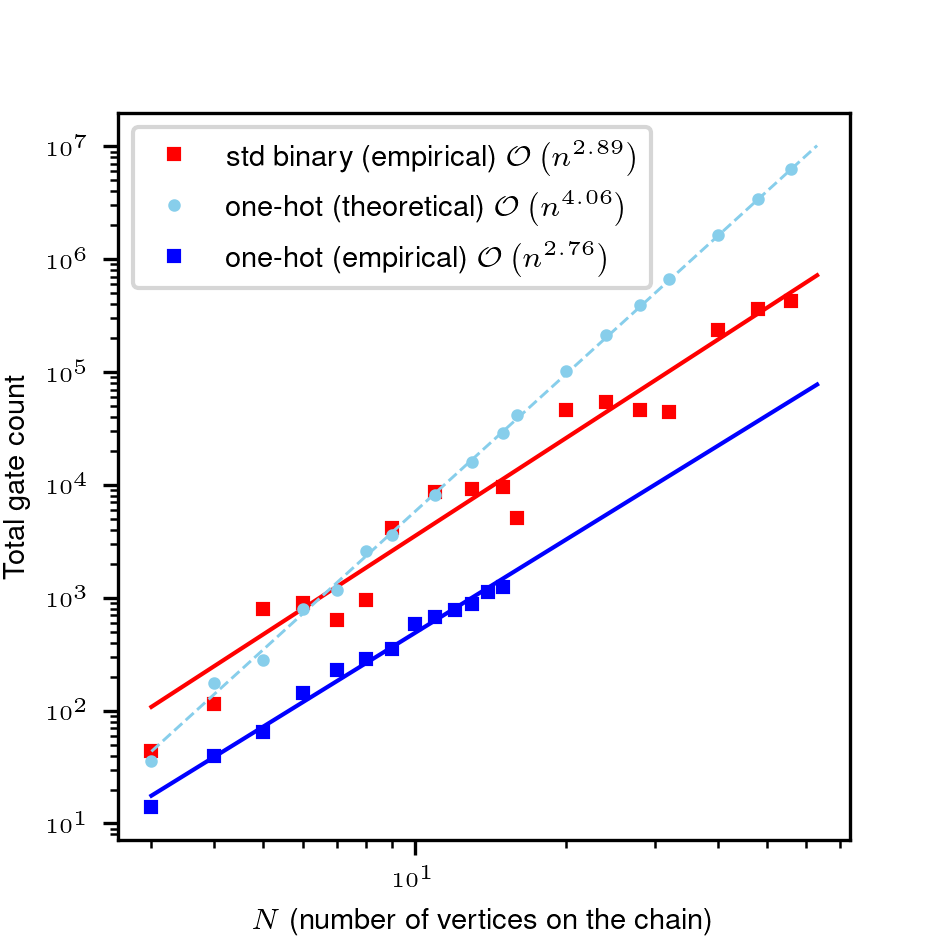
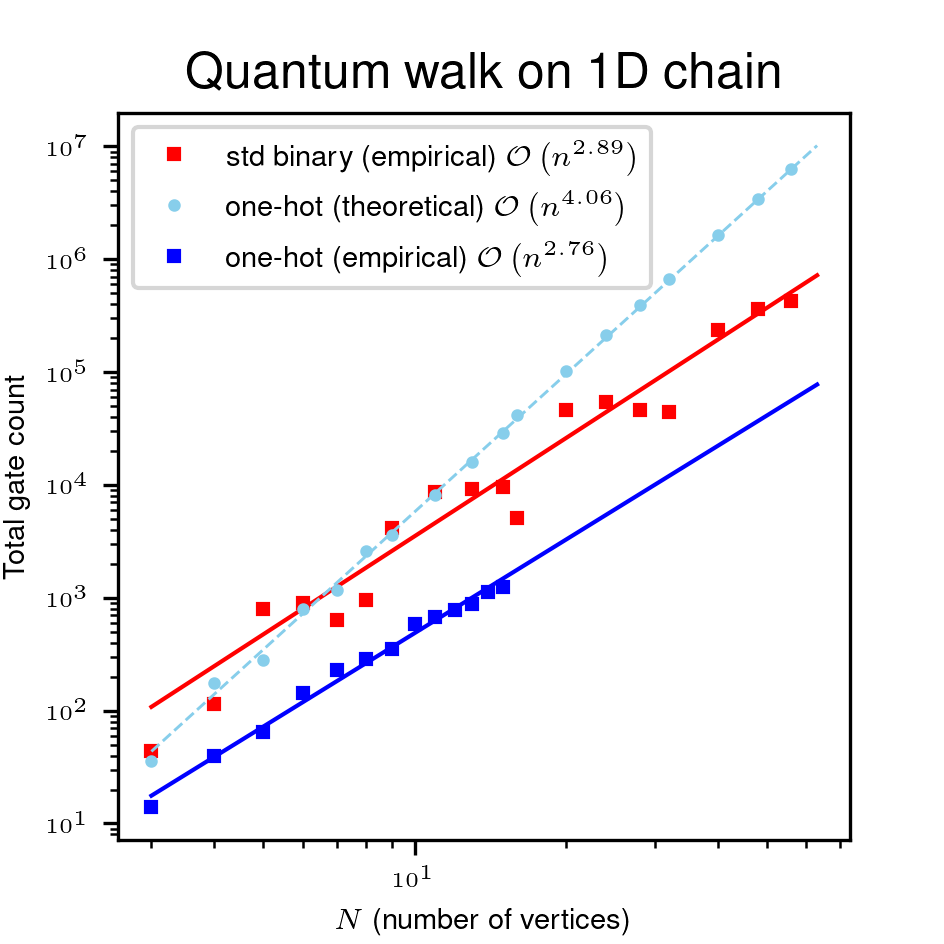
add title to figures

Changed region(s): [[0.1843, 0.0307, 0.8294, 0.0922], [0.2765, 0.9523, 0.768, 0.9831]]

diff --git a/plot_1d_chain.py b/plot_1d_chain.py
@@ -84,12 +84,12 @@ plt.plot(N_vals_one_hot, y_data_one_hot, 's', color="blue", label=fr"one-hot (em
 plt.plot(N_vals_binary, np.exp(p_one_hot[1]) * N_vals_binary **(p_one_hot[0]), "-", color="blue", linewidth=1)
 print(f"one-hot (empirical) scaling: {p_one_hot[0]}")
 
-
+plt.title("Quantum walk on 1D chain")
 plt.xscale('log')
 plt.yscale('log')
 plt.legend(loc='upper left', fontsize=LEGEND_FONT, frameon=True, facecolor='white')
 plt.ylabel("Total gate count", fontsize=LABEL_FONT)
-plt.xlabel(r"$N$" + " (number of vertices on the chain)", fontsize=LABEL_FONT)
+plt.xlabel(r"$N$" + " (number of vertices)", fontsize=LABEL_FONT)
 #print(x_tick_labels)
 plt.xticks(fontsize=TICK_FONT)
 plt.yticks(fontsize=TICK_FONT)

diff --git a/plot_1d_cycle.py b/plot_1d_cycle.py
@@ -84,12 +84,12 @@ plt.plot(N_vals_one_hot, y_data_one_hot, 's', color="blue", label=fr"one-hot (em
 plt.plot(N_vals_binary, np.exp(p_one_hot[1]) * N_vals_binary **(p_one_hot[0]), "-", color="blue", linewidth=1)
 print(f"one-hot (empirical) scaling: {p_one_hot[0]}")
 
-
+plt.title("Quantum walk on 1D cycle")
 plt.xscale('log')
 plt.yscale('log')
 plt.legend(loc='upper left', fontsize=LEGEND_FONT, frameon=True, facecolor='white')
 plt.ylabel("Total gate count", fontsize=LABEL_FONT)
-plt.xlabel(r"$N$" + " (number of vertices on the cycle)", fontsize=LABEL_FONT)
+plt.xlabel(r"$N$" + " (number of vertices)", fontsize=LABEL_FONT)
 #print(x_tick_labels)
 plt.xticks(fontsize=TICK_FONT)
 plt.yticks(fontsize=TICK_FONT)
